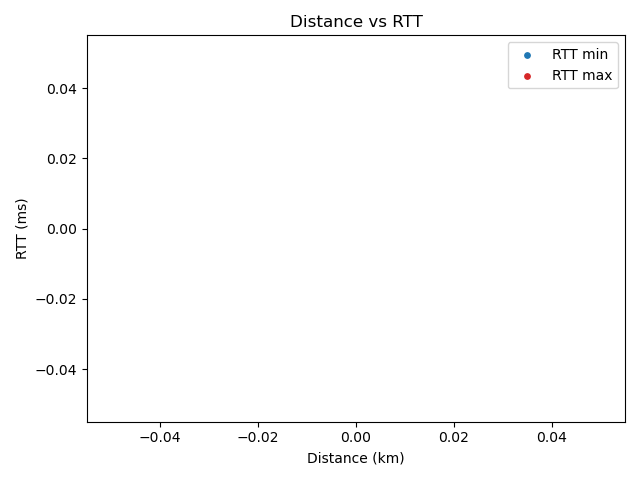
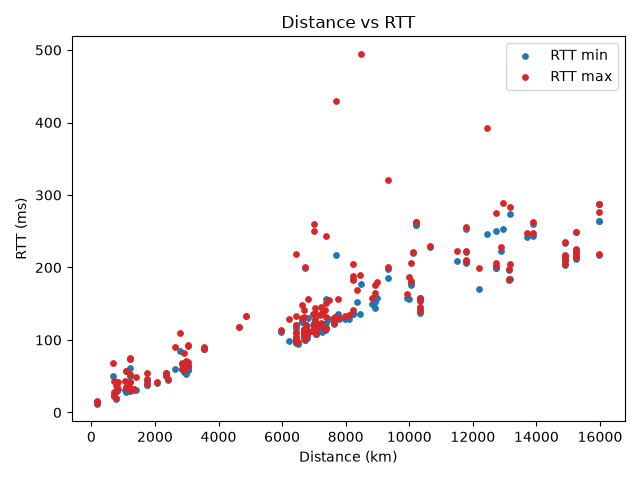
Fix incorrect IP parsing

diff --git a/script.py b/script.py
@@ -1,44 +1,40 @@
+import json
+import socket
+import subprocess
+
 import geopy.distance
 import matplotlib.pyplot as plt
 import requests
 
-import json
-import subprocess
-
 # from https://www.latlong.net/place/purdue-university-in-west-lafayette-34294.html
 PURDUE_COORDS = (40.423710, -86.921242)
 
-with open("listed_iperf3_servers.json", "r") as f:
-    servers_json = json.load(f)
 
 class Host:
+
     def __init__(self, host, count):
         self.host = host
 
-        self.ok = self.ping(count)
+        self.ok = self.ping(count) and self.calculate_dist()
         if self.ok:
-            self.ok = self.calculate_dist()
-
             print(f"pinged {self.host} dist: {self.dist_km} rtt min {self.rtt_min} max {self.rtt_max} avg {self.rtt_avg}")
 
     def ping(self, count):
-        out = subprocess.run(["ping", "-c", str(count), "-i", "0.1", self.host],
-                             capture_output=True,
-                             text=True)
+        cmd = ["ping", "-c", str(count), "-i", "0.1", self.host]
+        out = subprocess.run(cmd, capture_output=True, text=True)
 
         if out.returncode != 0:
-            print(f"couldn't ping {self.host} : {out.stderr}")
+            err = out.stderr.strip() or out.stdout.strip()
+            print(f"\ncouldn't ping {self.host} : {err}\n")
+
             return False
 
         lines = out.stdout.splitlines()
 
-        # e.g. PING speed.mymanga.pro (102.215.35.132) 56(84) bytes of data. 102.215.35.132
-        ip_line = lines[0]
-        self.ip = ip_line.split()[2][1:-1]
-
         # e.g. round-trip min/avg/max/stddev = 212.948/213.369/214.287/0.444 ms
         stat_line = lines[-1]
         stat_list = list(map(float, stat_line.split()[3].split("/")))
+
         self.rtt_min = stat_list[0]
         self.rtt_avg = stat_list[1]
         self.rtt_max = stat_list[2]
@@ -46,30 +42,33 @@ class Host:
         return True
 
     def calculate_dist(self):
-        resp = requests.get(f"http://ip-api.com/json/{self.ip}")
-        if resp.status_code != 200:
-            print(f"bad response for {self.host} status code {resp.status_code}")
+        ip = socket.gethostbyname(self.host)
+        res = requests.get(f"http://ip-api.com/json/{ip}")
+
+        if res.status_code != 200:
+            print(f"bad response for {self.host} with status code {res.status_code}")
             return False
 
-        resp_json = resp.json()
-        if resp_json["status"] != "success":
+        res_json = res.json()
+
+        if res_json["status"] != "success":
             print(f"bad response for {self.host}")
-            print(resp_json)
+            print(res_json)
             return False
 
-        host_coords = (resp_json["lat"], resp_json["lon"])
+        host_coords = (res_json["lat"], res_json["lon"])
         self.dist_km = geopy.distance.geodesic(PURDUE_COORDS, host_coords).km
 
         return True
 
 
 def traceroute(self, hops, probes, wait):
-    #set max hops probes and waitime
+    # set max hops probes and waitime
     cmd = ["traceroute", "-n", "-m", str(hops), "-q", str(probes), "-w", str(wait), self.host]
 
-    #worst timeout everything probe on every hop times out
+    # worst timeout everything probe on every hop times out
     timeout = hops * probes * wait + 5
-    try: 
+    try:
         out = subprocess.run(cmd, capture_output=True, text=True, timeout=timeout)
     except subprocess.TimeoutExpired:
         print(f"traceroute to {self.host} timed out")
@@ -79,19 +78,23 @@ def traceroute(self, hops, probes, wait):
         print(f"couldn't traceroute {self.host} : {out.stderr}")
         return False
 
-    #TODO: parse handeling and prolly more err checks  
+    # TODO: parse handeling and prolly more err checks
 
+
+with open("listed_iperf3_servers.json", "r") as f:
+    servers_json = json.load(f)
 
 hosts = []
 
 for server in servers_json:
     host = Host(server["IP/HOST"], 5)
+
     if host.ok:
         hosts.append(host)
 
 distance = [host.dist_km for host in hosts]
-rtt_min  = [host.rtt_min for host in hosts]
-rtt_max  = [host.rtt_max for host in hosts]
+rtt_min = [host.rtt_min for host in hosts]
+rtt_max = [host.rtt_max for host in hosts]
 
 plt.scatter(distance, rtt_min, label='RTT min', color='tab:blue', s=15)
 plt.scatter(distance, rtt_max, label='RTT max', color='tab:red', s=15)
@@ -102,4 +105,3 @@ plt.title('Distance vs RTT')
 plt.legend()
 plt.tight_layout()
 plt.savefig('output.png')
-
